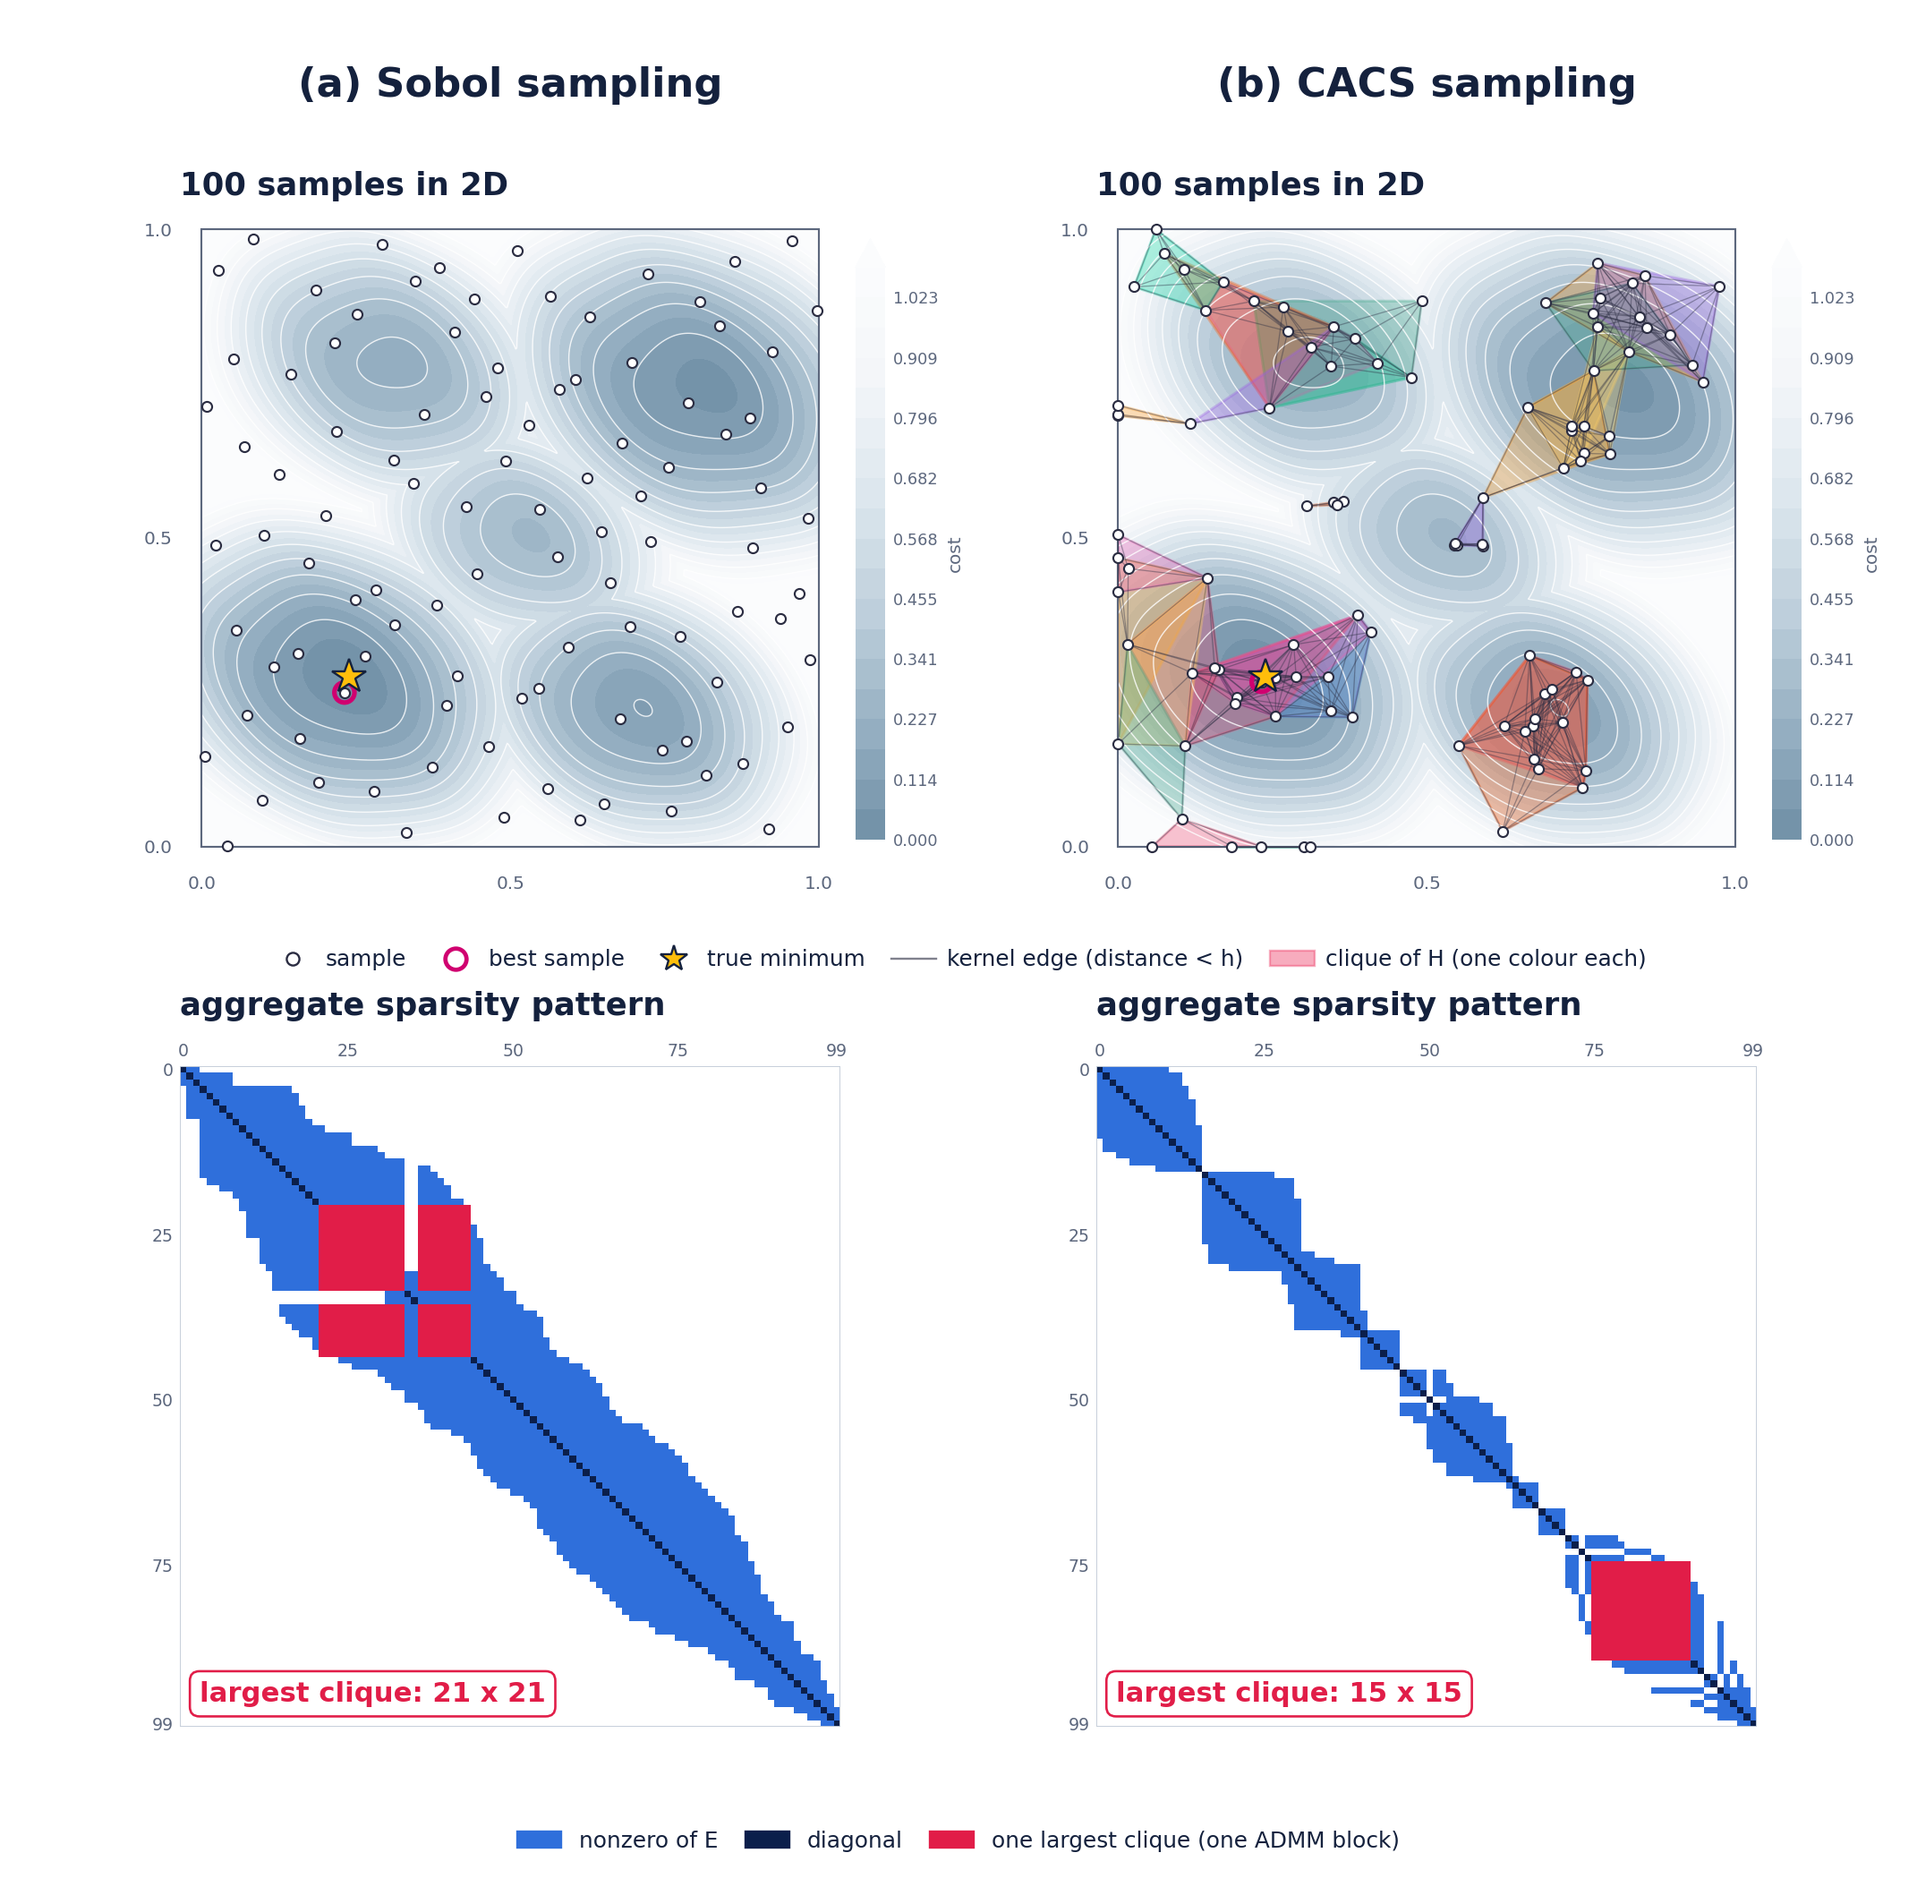
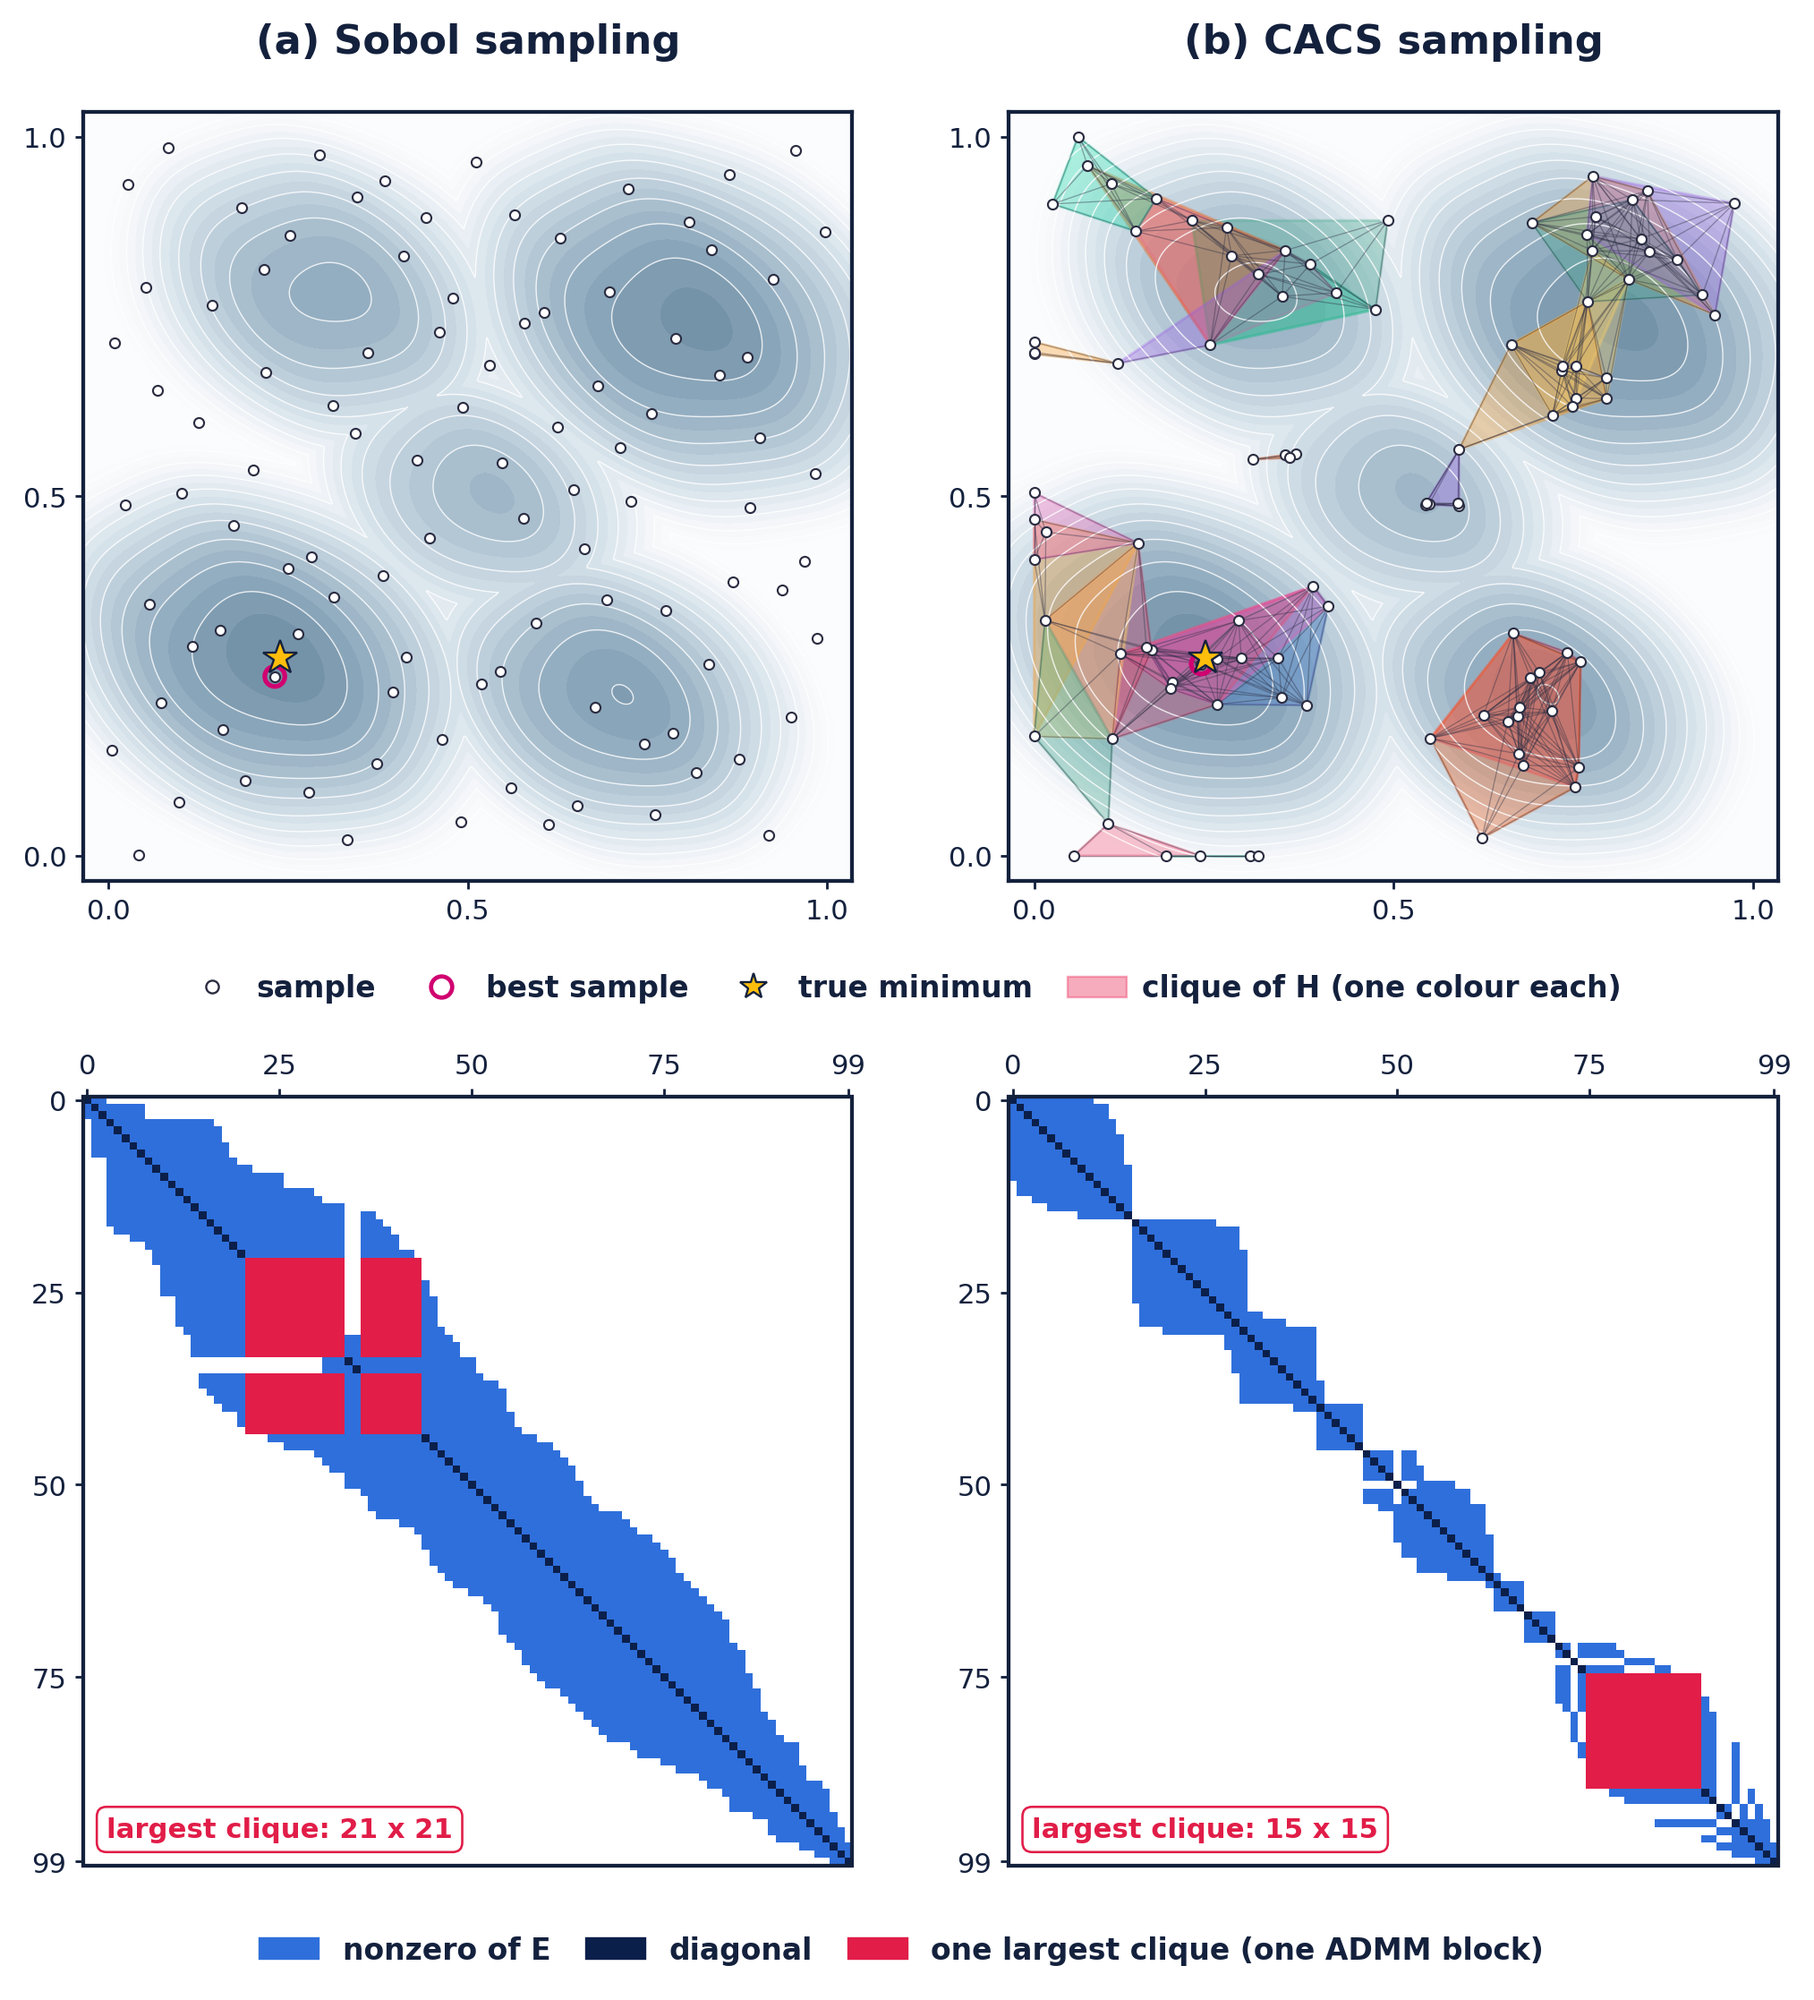
Sobol vs CACS 2-D paper figure: no panel titles, clearer frames, bold legend, tighter layout

diff --git a/examples/sample_method_test/plot_cacs_2d.py b/examples/sample_method_test/plot_cacs_2d.py
@@ -161,8 +161,8 @@ def below(ax, handles, ncol=3):
               fontsize=8.2, handlelength=1.2, columnspacing=1.4, labelcolor=INK)
 
 
-def save(fig, name):
-    fig.savefig(out / f"{name}.png", facecolor="white")
+def save(fig, name, tight=False):
+    fig.savefig(out / f"{name}.png", facecolor="white", **(dict(bbox_inches="tight", pad_inches=0.15) if tight else {}))
     plt.close(fig)
     print("saved", out / f"{name}.png")
 
@@ -493,31 +493,45 @@ print("sobol direct aggregate pattern, pairs:", aggregate_direct(S, cS, "sobol_2
 def comparison_figure(paper=False):
     from matplotlib.gridspec import GridSpec
     from matplotlib.patches import Patch
-    fig = plt.figure(figsize=(12.6, 12.4), dpi=170)
+    fig = plt.figure(figsize=(12.6, 13.4) if paper else (12.6, 12.4), dpi=170)
     # paper: top row samples (a) Sobol (b) CACS, bottom row patterns (c) Sobol (d) CACS; else one row per method
     P_SP, P_CP, P_SM, P_CM = ((0, 0), (0, 1), (1, 0), (1, 1)) if not paper else ((0, 0), (1, 0), (0, 1), (1, 1))
     gs = GridSpec(2, 2, figure=fig, width_ratios=[1.12, 1] if not paper else [1, 1],
-                  wspace=0.16 if not paper else 0.22, hspace=0.2 if not paper else 0.3,
-                  left=0.07, right=0.94 if paper else 0.98, top=0.89 if paper else 0.87, bottom=0.085)
+                  wspace=0.16 if not paper else 0.08, hspace=0.2 if not paper else 0.28,
+                  left=0.05 if paper else 0.07, right=0.98, top=0.93 if paper else 0.87,
+                  bottom=0.07 if paper else 0.085)  # paper: tight grid, the square panels fill the width
     lab = (lambda k, t: f"({k}) {t}") if paper else (lambda k, t: t)
 
+    if paper:  # cost on the whole plot area (the margin around the box too), so the frame is the axes frame
+        ge = np.linspace(-0.035, 1.035, 500)
+        GXe, GYe = np.meshgrid(ge, ge)
+        Ze = cost(np.stack([GXe.ravel(), GYe.ravel()], 1)).reshape(GXe.shape)
+
     def points(ax, P, f, title):
-        cf = ax.contourf(GX, GY, Z, levels=levels, cmap=CMAP, extend="max")
-        ax.contour(GX, GY, Z, levels=levels[::2], colors="white", linewidths=0.6, alpha=0.8)
-        ax.add_patch(plt.Rectangle((0, 0), 1, 1, fill=False, ec=INK2, lw=0.9, zorder=2))
+        gx, gy, z = (GXe, GYe, Ze) if paper else (GX, GY, Z)
+        cf = ax.contourf(gx, gy, z, levels=levels, cmap=CMAP, extend="max")
+        ax.contour(gx, gy, z, levels=levels[::2], colors="white", linewidths=0.6, alpha=0.8)
+        if not paper:
+            ax.add_patch(plt.Rectangle((0, 0), 1, 1, fill=False, ec=INK2, lw=0.9, zorder=2))
         ax.plot(*tm[:2], marker="*", ms=17, color=STAR, mec=INK, mew=1.0, zorder=7, ls="none")
         ax.scatter(P[:, 0], P[:, 1], s=22, c="white", edgecolors=SAMPLE_EDGE, linewidths=0.9, zorder=5)
         ax.scatter(*P[np.argmin(f)], s=90, facecolors="none", edgecolors=BEST, linewidths=2.2, zorder=6)
         ax.set(xlim=(-0.035, 1.035), ylim=(-0.035, 1.035), aspect="equal")
         ax.set_xticks([0, 0.5, 1]); ax.set_yticks([0, 0.5, 1])
-        ax.tick_params(colors=INK2, labelsize=8.5, length=0)
-        for sp in ax.spines.values():
-            sp.set_visible(False)
+        if paper:  # dark axes frame (same size as the matrix frames below), readable ticks
+            ax.tick_params(colors=INK, labelsize=13, length=4, width=1.2, pad=4)
+            for sp in ax.spines.values():
+                sp.set_visible(True); sp.set_color(INK); sp.set_linewidth(1.8); sp.set_zorder(8)
+        else:
+            ax.tick_params(colors=INK2, labelsize=8.5, length=0)
+            for sp in ax.spines.values():
+                sp.set_visible(False)
         ax.set_title(title, fontsize=15 if paper else 10.5, weight="bold" if paper else "normal", color=INK, loc="left")
-        cb = fig.colorbar(cf, ax=ax, fraction=0.04, pad=0.02)
-        cb.set_label("cost", color=INK2, fontsize=8.5)
-        cb.ax.tick_params(labelsize=7.5, colors=INK2, length=0)
-        cb.outline.set_visible(False)
+        if not paper:  # the paper figure has no cost colour bar
+            cb = fig.colorbar(cf, ax=ax, fraction=0.04, pad=0.02)
+            cb.set_label("cost", color=INK2, fontsize=8.5)
+            cb.ax.tick_params(labelsize=7.5, colors=INK2, length=0)
+            cb.outline.set_visible(False)
 
     def pattern(ax, st, title):
         n = st.n
@@ -533,6 +547,9 @@ def comparison_figure(paper=False):
         A[big, big] = 2
         ax.imshow(A, cmap=ListedColormap([ZERO, NZ, BIGC, DIAG]), vmin=0, vmax=3, interpolation="nearest")
         tiles(ax, n)
+        if paper:  # a clear dark frame around the matrix, readable ticks
+            ax.add_patch(plt.Rectangle((-0.5, -0.5), n, n, fill=False, ec=INK, lw=1.8, zorder=5, clip_on=False))
+            ax.tick_params(colors=INK, labelsize=13, length=4, width=1.2, pad=4)
         ax.set_title(title, fontsize=15 if paper else 10.5, weight="bold" if paper else "normal", color=INK, loc="left",
                      pad=24 if paper else 20)
         ax.text(0.03, 0.03, f"largest clique: {len(big)} x {len(big)}", transform=ax.transAxes, ha="left", va="bottom",
@@ -543,10 +560,10 @@ def comparison_figure(paper=False):
     # top: Sobol
     a = fig.add_subplot(gs[0, 0])
     a_sobol = a
-    points(a, S, cS, f"{len(S)} samples in 2D" if paper else f"Sobol: {len(S)} samples, best {cS.min():.3f}")
+    points(a, S, cS, "" if paper else f"Sobol: {len(S)} samples, best {cS.min():.3f}")
     stS2 = structure_of(S, cS, rcm_order(S, args.h), False)
     pattern(fig.add_subplot(gs[1, 0] if paper else gs[0, 1]), stS2,
-            "aggregate sparsity pattern" if paper else
+            "" if paper else
             f"Sobol: aggregate pattern E\n{stS2.stats['E_edges']} pairs, {stS2.stats['num_cliques']} cliques")
     # bottom: CACS, samples with the kernel graph and the cliques of H
     a = fig.add_subplot(gs[0, 1] if paper else gs[1, 0])
@@ -562,11 +579,11 @@ def comparison_figure(paper=False):
             a.plot(*Pq.T, color=col, lw=2.5, alpha=0.7, zorder=2, solid_capstyle="round")
     a.add_collection(LineCollection([X[[i, j]] for i, j in G_edges], colors=EDGE, linewidths=0.55, alpha=0.4, zorder=3))
     a_cacs = a
-    points(a, X, c, f"{len(X)} samples in 2D" if paper else
+    points(a, X, c, "" if paper else
            f"CACS (max_clique {args.max_clique}): {len(X)} samples, best {c.min():.3f}")
     stC2 = structure_of(X, c, rcm_order(X, args.h), False)  # as cacs_2d_sparsity_rcm.png
     pattern(fig.add_subplot(gs[1, 1]), stC2,
-            "aggregate sparsity pattern" if paper else
+            "" if paper else
             f"CACS: aggregate pattern E\n{stC2.stats['E_edges']} pairs, {stC2.stats['num_cliques']} cliques")
 
     if not paper:
@@ -581,20 +598,24 @@ def comparison_figure(paper=False):
     fig.legend(handles=[Line2D([], [], ls="none", marker="o", ms=6, mfc="white", mec=SAMPLE_EDGE, label="sample"),
                         Line2D([], [], ls="none", marker="o", ms=10, mfc="none", mec=BEST, mew=2, label="best sample"),
                         Line2D([], [], ls="none", marker="*", ms=13, mfc=STAR, mec=INK, label="true minimum"),
-                        Line2D([], [], color=EDGE, lw=1, alpha=0.6, label="kernel edge (distance < h)"),
+                        *([] if paper else [Line2D([], [], color=EDGE, lw=1, alpha=0.6, label="kernel edge (distance < h)")]),
                         Patch(facecolor=CLIQUE[0], alpha=0.45, edgecolor=CLIQUE[0], label="clique of H (one colour each)")],
-               loc="lower center", bbox_to_anchor=(0.5, 0.475) if paper else (0.3, 0.008), ncol=5 if paper else 3, frameon=False, fontsize=10.5 if paper else 9, labelcolor=INK,
+               loc="center" if paper else "lower center",
+               bbox_to_anchor=(0.5, (a_sobol.get_position().y0 + min(ax_.get_position().y1 for ax_ in fig.axes
+                                                                        if ax_.get_position().y1 < 0.6)) / 2)
+               if paper else (0.3, 0.008), ncol=4 if paper else 3, frameon=False, prop=dict(size=14 if paper else 9, weight="bold" if paper else "normal"), labelcolor=INK,
                columnspacing=1.2, handletextpad=0.5)
     fig.legend(handles=[Patch(color=NZ, label="nonzero of E"), Patch(color=DIAG, label="diagonal"),
                         Patch(color=BIGC, label="one largest clique (one ADMM block)")],
-               loc="lower center", bbox_to_anchor=(0.5, 0.008) if paper else (0.77, 0.008), ncol=3 if paper else 2, frameon=False, fontsize=10.5 if paper else 9, labelcolor=INK,
+               loc="lower center", bbox_to_anchor=(0.5, 0.008) if paper else (0.77, 0.008), ncol=3 if paper else 2, frameon=False, prop=dict(size=14 if paper else 9, weight="bold" if paper else "normal"), labelcolor=INK,
                columnspacing=1.2)
     if paper:  # column headers: (a) Sobol on the left, (b) CACS on the right
         fig.canvas.draw()
         for ax_, txt in ((a_sobol, "(a) Sobol sampling"), (a_cacs, "(b) CACS sampling")):
             pos = ax_.get_position()
-            fig.text((pos.x0 + pos.x1) / 2, 0.965, txt, ha="center", va="top", fontsize=19, weight="bold", color=INK)
-    save(fig, "sobol_vs_cacs_2d_paper" if paper else "sobol_vs_cacs_2d")
+            fig.text((pos.x0 + pos.x1) / 2, pos.y1 + 0.025, txt, ha="center", va="bottom", fontsize=19, weight="bold",
+                     color=INK)  # just above the top-row plot (no panel titles in the paper figure)
+    save(fig, "sobol_vs_cacs_2d_paper" if paper else "sobol_vs_cacs_2d", tight=paper)
 
 
 comparison_figure()
